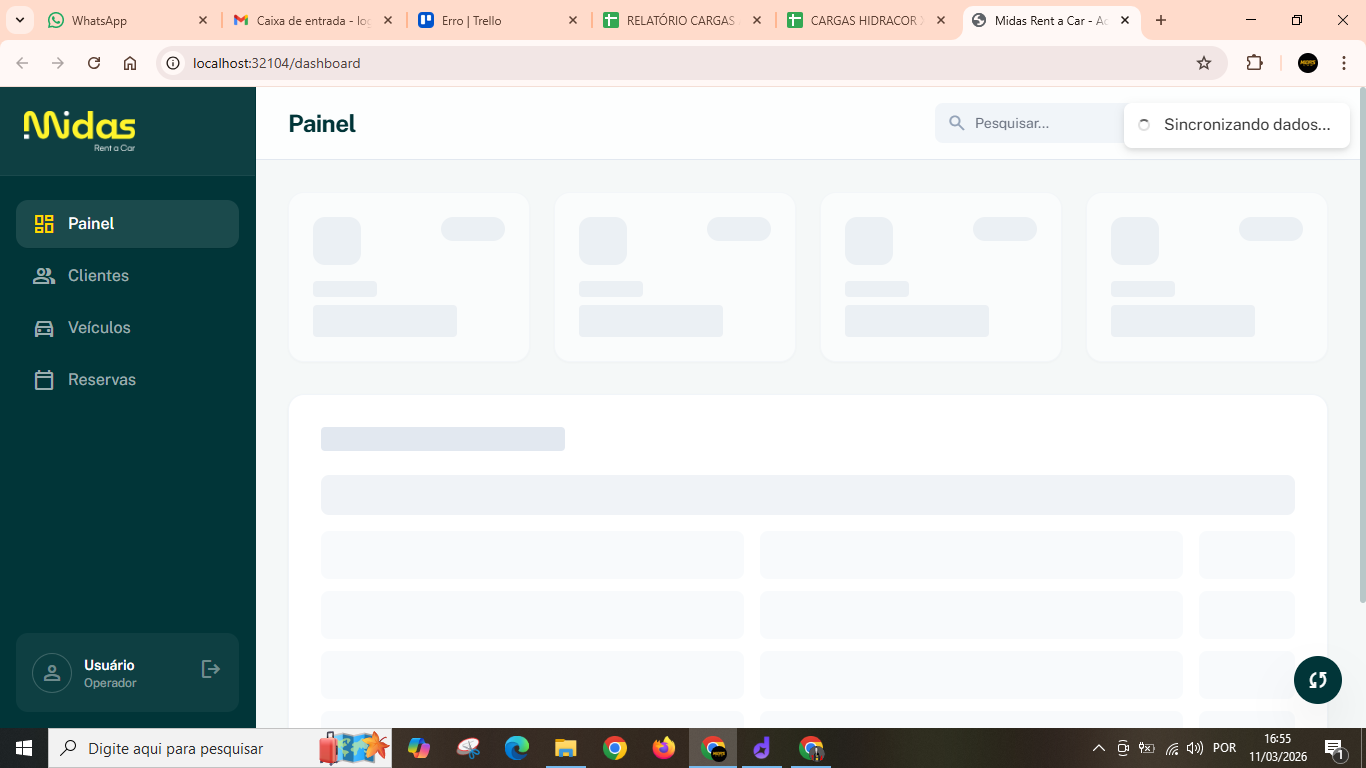
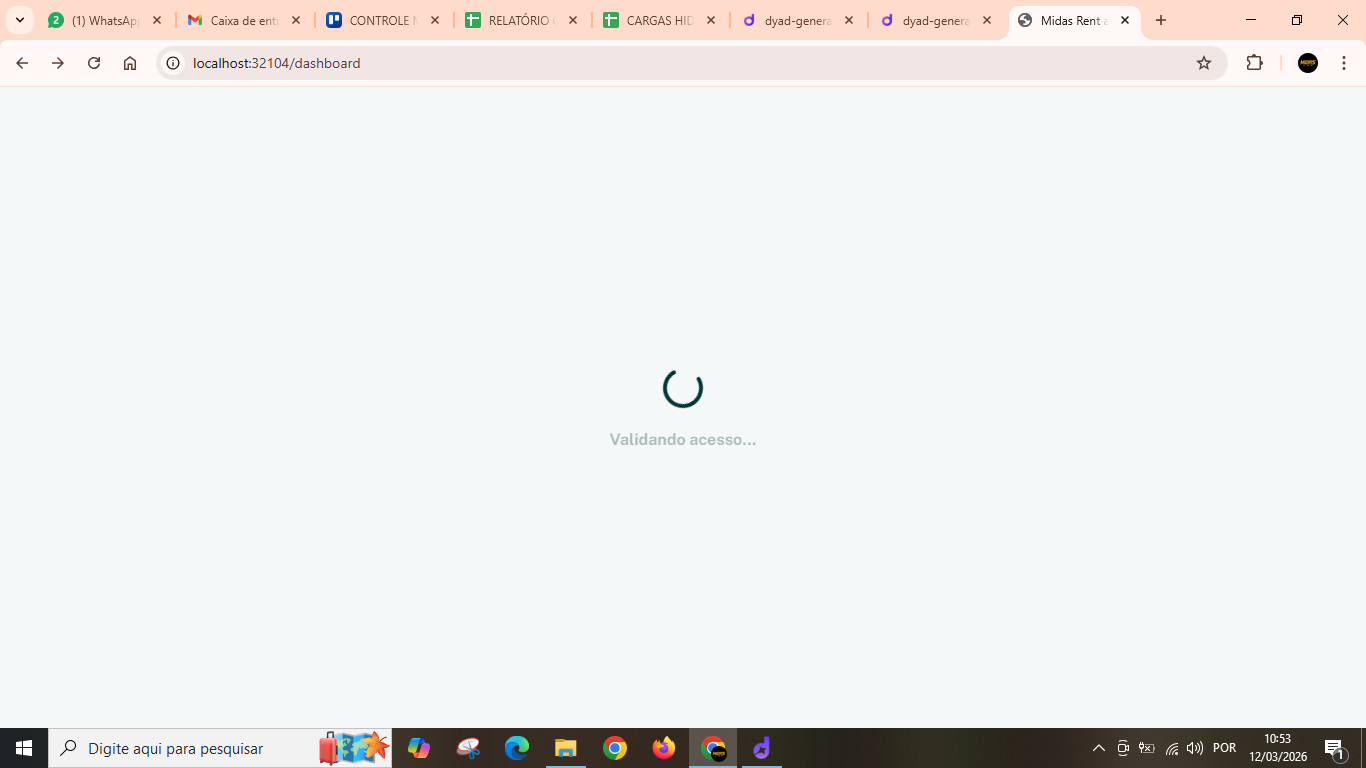
[dyad] Otimizando velocidade de validação de acesso no refresh - wrote 2 file(s)

diff --git a/contexts/AppContext.tsx b/contexts/AppContext.tsx
@@ -25,45 +25,50 @@ export const AppProvider: React.FC<{ children: ReactNode }> = ({ children }) => 
 
         const initializeAuth = async () => {
             try {
-                // 1. Tenta recuperar a sessão existente de forma segura
+                // 1. Recupera a sessão de forma ultra rápida
                 const { data: { session: initialSession }, error } = await supabase.auth.getSession();
                 
                 if (error) throw error;
 
                 if (mounted) {
                     setSession(initialSession);
+                    // LIBERA A TELA IMEDIATAMENTE se houver sessão ou se não houver
+                    setLoading(false); 
+
+                    // 2. Busca o perfil em segundo plano (não trava a tela)
                     if (initialSession) {
-                        const { data: profileData } = await supabase
+                        supabase
                             .from('profiles')
                             .select('*')
                             .eq('id', initialSession.user.id)
-                            .single();
-                        
-                        if (profileData) setProfile(profileData as UserProfile);
+                            .single()
+                            .then(({ data }) => {
+                                if (mounted && data) setProfile(data as UserProfile);
+                            });
                     }
                 }
             } catch (err) {
                 console.error('[AuthContext] Erro na inicialização:', err);
-            } finally {
                 if (mounted) setLoading(false);
             }
         };
 
         initializeAuth();
 
-        // 2. Escuta mudanças de estado (Login/Logout/Refresh)
         const { data: { subscription } } = supabase.auth.onAuthStateChange(async (event, currentSession) => {
             if (!mounted) return;
 
             setSession(currentSession);
             
             if (event === 'SIGNED_IN' || event === 'TOKEN_REFRESHED') {
-                const { data } = await supabase
-                    .from('profiles')
-                    .select('*')
-                    .eq('id', currentSession?.user.id)
-                    .single();
-                if (data) setProfile(data as UserProfile);
+                if (currentSession) {
+                    const { data } = await supabase
+                        .from('profiles')
+                        .select('*')
+                        .eq('id', currentSession.user.id)
+                        .single();
+                    if (data) setProfile(data as UserProfile);
+                }
             } else if (event === 'SIGNED_OUT') {
                 setProfile(null);
                 setSession(null);
